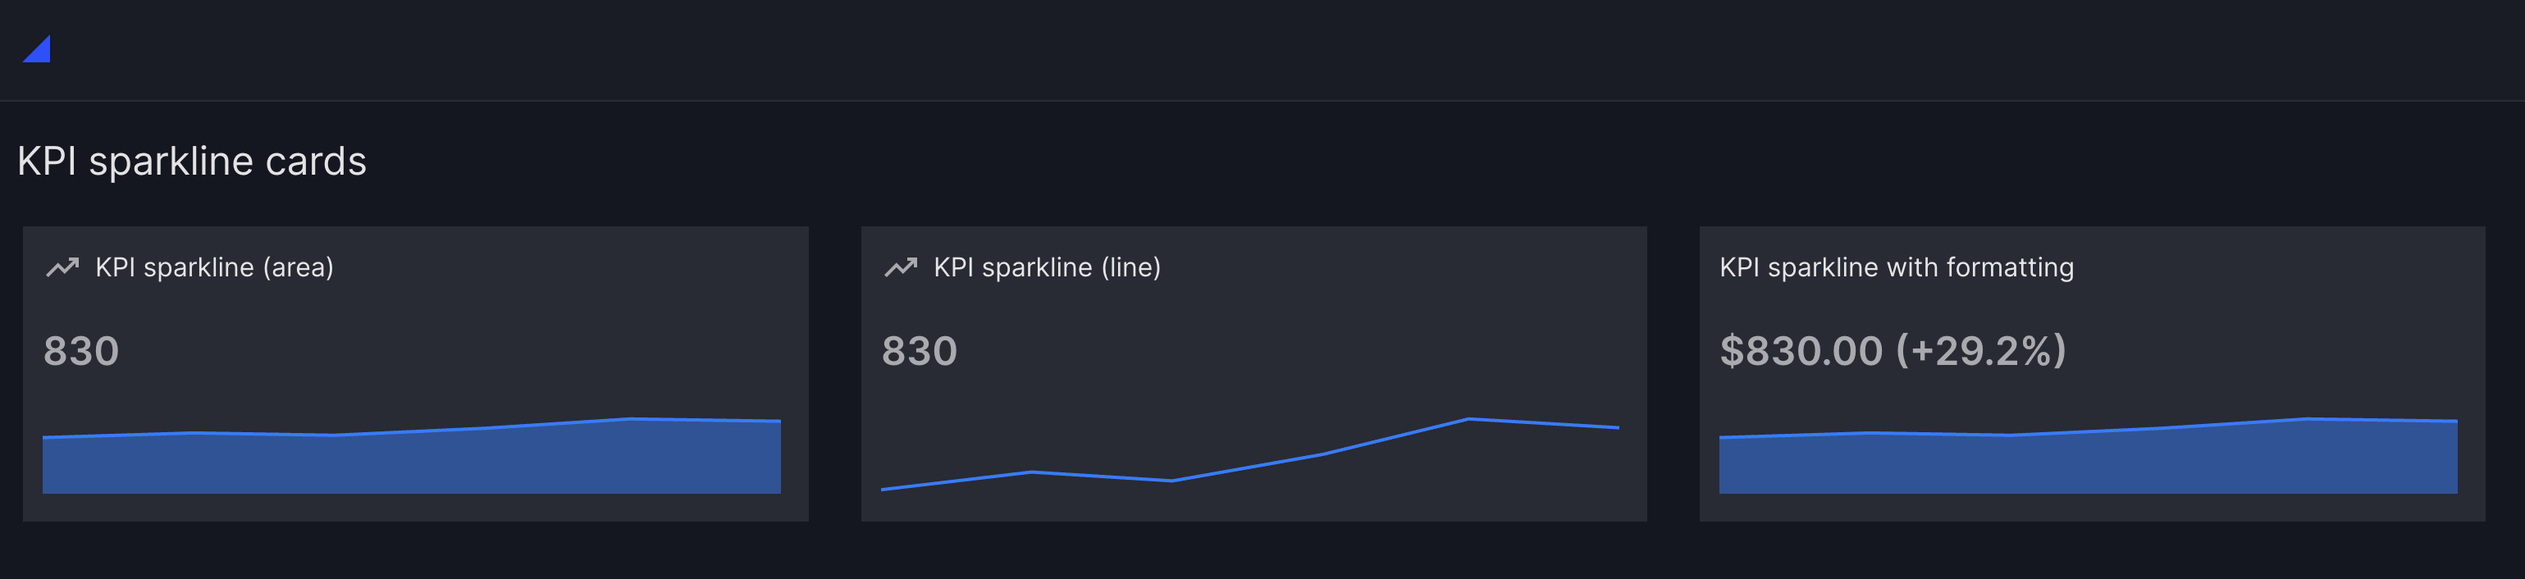
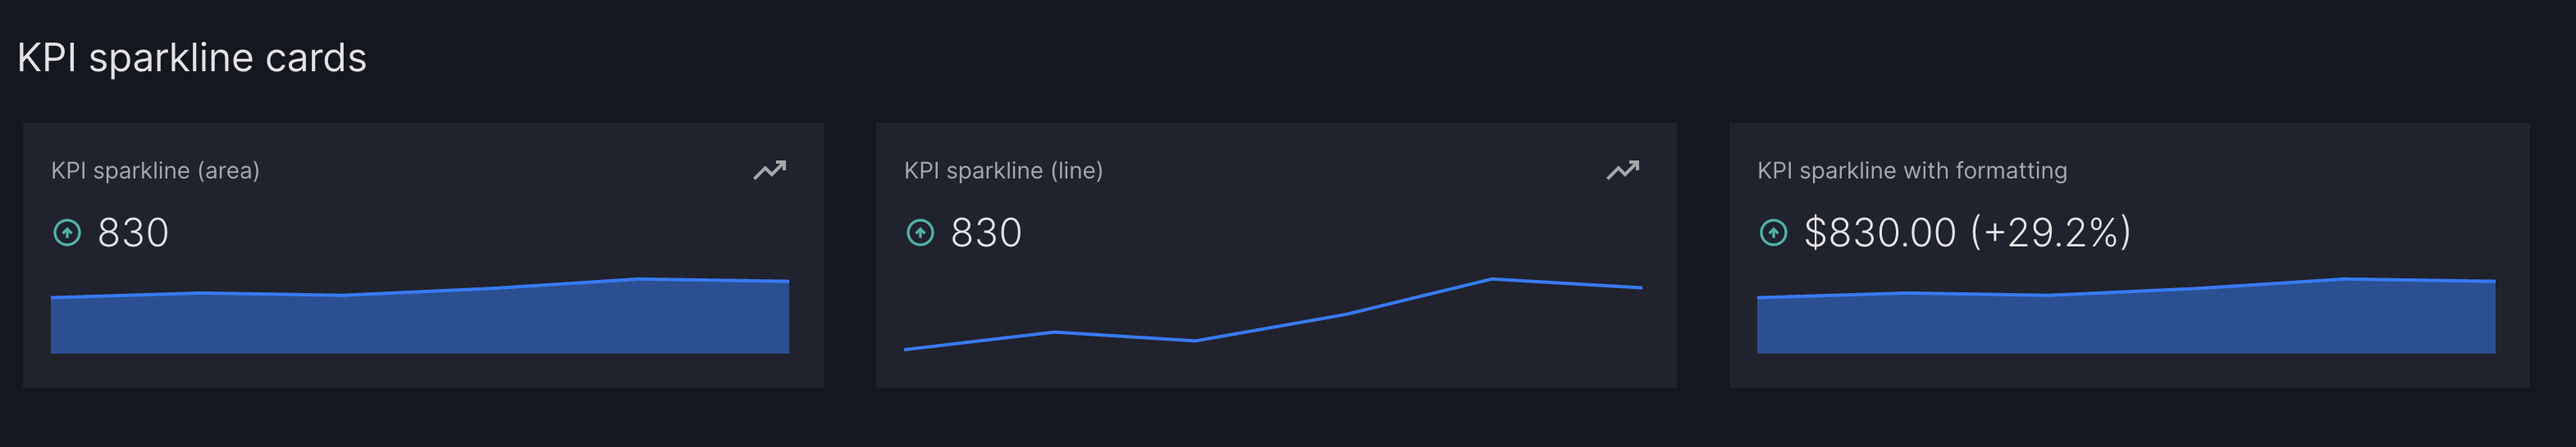
fix tests and docs

diff --git a/vizro-core/tests/unit/vizro/figures/test_kpi_sparkline_card.py b/vizro-core/tests/unit/vizro/figures/test_kpi_sparkline_card.py
@@ -44,11 +44,12 @@ def _expected_sparkline_figure(value_column, chart_type):
     return fig
 
 
-def _expected_card(*, header, value_text, delta_class, delta_icon, figure):
+def _expected_card(*, header, value_text, delta_class, delta_icon, figure, units_text=None):
     body = dbc.CardBody(
         [
-            html.Span(value_text),
             html.Span(delta_icon, className=f"material-symbols-outlined {delta_class}".strip()),
+            html.Span(value_text),
+            html.Span(units_text, className="card-kpi-units") if units_text else None,
         ]
     )
     return dbc.Card(
@@ -71,7 +72,9 @@ class TestKPISparklineCard:
     def test_kpi_sparkline_card_mandatory_increasing(self):
         result = kpi_sparkline_card(data_frame=df, value_column="Actual", x_column="Date")()
         expected = _expected_card(
-            header=dbc.CardHeader([None, html.H4("Sum Actual", className="card-kpi-title")]),
+            header=dbc.CardHeader(
+                [html.H4("Sum Actual", className="card-kpi-title"), None], className="card-kpi-header"
+            ),
             value_text="60",
             delta_class="color-pos",
             delta_icon="arrow_circle_up",
@@ -82,7 +85,9 @@ class TestKPISparklineCard:
     def test_kpi_sparkline_card_mandatory_decreasing(self):
         result = kpi_sparkline_card(data_frame=df, value_column="Declining", x_column="Date")()
         expected = _expected_card(
-            header=dbc.CardHeader([None, html.H4("Sum Declining", className="card-kpi-title")]),
+            header=dbc.CardHeader(
+                [html.H4("Sum Declining", className="card-kpi-title"), None], className="card-kpi-header"
+            ),
             value_text="60",
             delta_class="color-neg",
             delta_icon="arrow_circle_down",
@@ -93,7 +98,7 @@ class TestKPISparklineCard:
     def test_kpi_sparkline_card_mandatory_flat(self):
         result = kpi_sparkline_card(data_frame=df, value_column="Flat", x_column="Date")()
         expected = _expected_card(
-            header=dbc.CardHeader([None, html.H4("Sum Flat", className="card-kpi-title")]),
+            header=dbc.CardHeader([html.H4("Sum Flat", className="card-kpi-title"), None], className="card-kpi-header"),
             value_text="15",
             delta_class="",
             delta_icon="arrow_circle_right",
@@ -104,7 +109,9 @@ class TestKPISparklineCard:
     def test_kpi_sparkline_card_reverse_color(self):
         result = kpi_sparkline_card(data_frame=df, value_column="Actual", x_column="Date", reverse_color=True)()
         expected = _expected_card(
-            header=dbc.CardHeader([None, html.H4("Sum Actual", className="card-kpi-title")]),
+            header=dbc.CardHeader(
+                [html.H4("Sum Actual", className="card-kpi-title"), None], className="card-kpi-header"
+            ),
             value_text="60",
             delta_class="color-neg",
             delta_icon="arrow_circle_up",
@@ -115,7 +122,9 @@ class TestKPISparklineCard:
     def test_kpi_sparkline_card_chart_type_line(self):
         result = kpi_sparkline_card(data_frame=df, value_column="Actual", x_column="Date", chart_type="line")()
         expected = _expected_card(
-            header=dbc.CardHeader([None, html.H4("Sum Actual", className="card-kpi-title")]),
+            header=dbc.CardHeader(
+                [html.H4("Sum Actual", className="card-kpi-title"), None], className="card-kpi-header"
+            ),
             value_text="60",
             delta_class="color-pos",
             delta_icon="arrow_circle_up",
@@ -136,9 +145,10 @@ class TestKPISparklineCard:
         expected = _expected_card(
             header=dbc.CardHeader(
                 [
-                    html.P("shopping_cart", className="material-symbols-outlined"),
                     html.H4("sales", className="card-kpi-title"),
-                ]
+                    html.P("shopping_cart", className="material-symbols-outlined"),
+                ],
+                className="card-kpi-header",
             ),
             value_text="$20.00 (+200.0%)",
             delta_class="color-pos",
@@ -152,7 +162,9 @@ class TestKPISparklineCard:
             data_frame=df, value_column="ZeroStart", x_column="Date", value_format="{value} ({delta_relative:+.1%})"
         )()
         expected = _expected_card(
-            header=dbc.CardHeader([None, html.H4("Sum Zerostart", className="card-kpi-title")]),
+            header=dbc.CardHeader(
+                [html.H4("Sum Zerostart", className="card-kpi-title"), None], className="card-kpi-header"
+            ),
             value_text="15 (+nan%)",
             delta_class="color-pos",
             delta_icon="arrow_circle_up",
